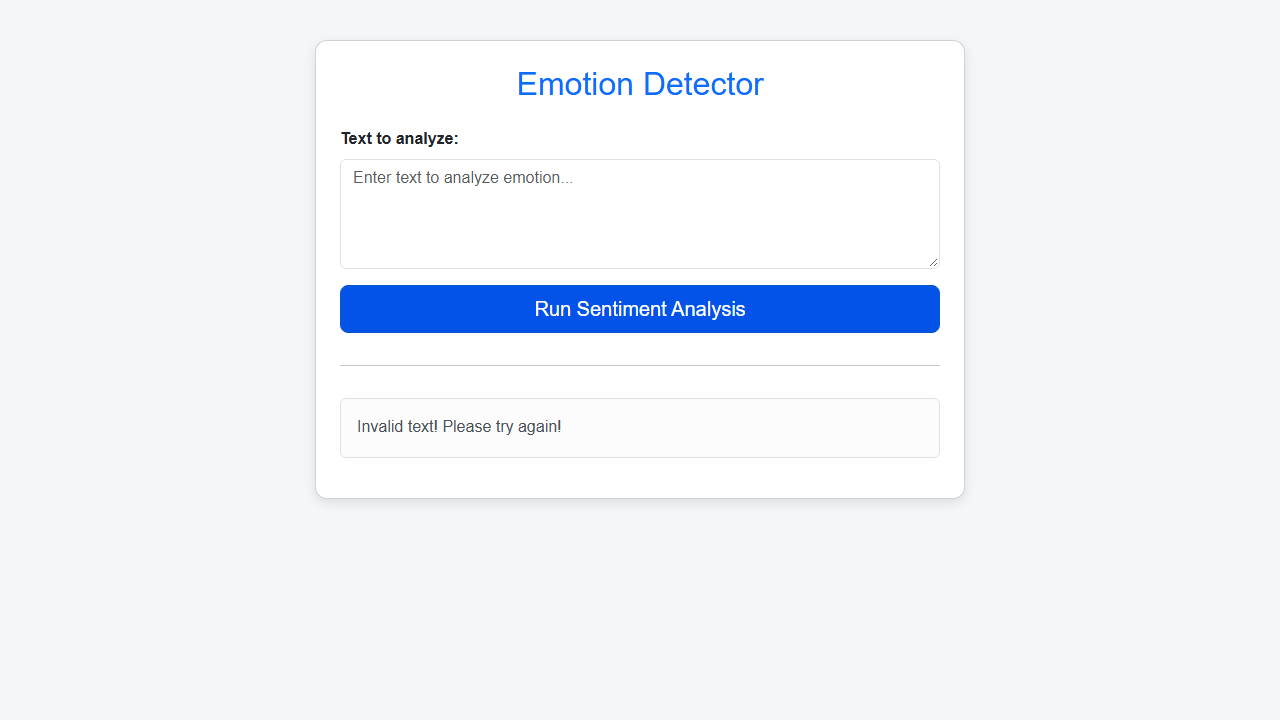
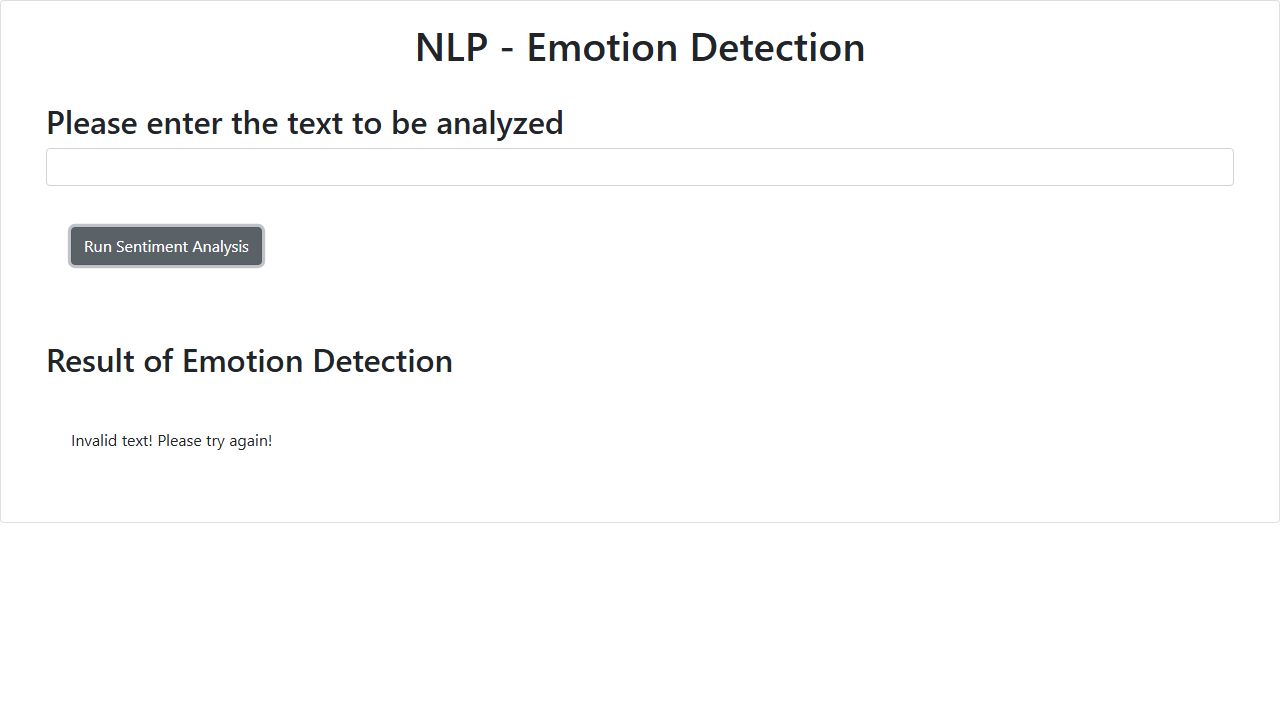
Update templates and deployment screenshots

diff --git a/templates/index.html b/templates/index.html
@@ -1,43 +1,33 @@
-<!DOCTYPE html>
-<html lang="en">
+<html>
 <head>
-    <meta charset="UTF-8">
-    <title>Emotion Detector</title>
-    <script src="{{ url_for('static', filename='mywebscript.js') }}"></script>
-    <link rel="stylesheet" href="https://cdn.jsdelivr.net/npm/bootstrap@5.3.0/dist/css/bootstrap.min.css">
+    <link rel="stylesheet" href="https://stackpath.bootstrapcdn.com/bootstrap/4.3.1/css/bootstrap.min.css" integrity="sha384-ggOyR0iXCbMQv3Xipma34MD+dH/1fQ784/j6cY/iJTQUOhcWr7x9JvoRxT2MZw1T" crossorigin="anonymous">
+    <script src="./static/mywebscript.js"></script>
     <style>
-        body {
-            padding: 40px;
-            background-color: #f4f6f8;
-            font-family: Arial, sans-serif;
-        }
-        .card {
-            max-width: 650px;
-            margin: 0 auto;
-            border-radius: 12px;
-            box-shadow: 0 4px 12px rgba(0, 0, 0, 0.1);
-        }
-        .btn-primary {
-            background-color: #0f62fe;
-            border-color: #0f62fe;
-        }
-        .btn-primary:hover {
-            background-color: #0353e9;
+        .center-heading {
+            text-align: center;
         }
     </style>
 </head>
 <body>
-    <div class="card p-4">
-        <h2 class="text-center mb-4 text-primary">Emotion Detector</h2>
-        <div class="mb-3">
-            <label for="textToAnalyze" class="form-label fw-bold">Text to analyze:</label>
-            <textarea class="form-control" id="textToAnalyze" rows="4" placeholder="Enter text to analyze emotion..."></textarea>
+    <div class="card">
+        <div class="card-body">
+            <h1 class="center-heading">NLP - Emotion Detection</h1> 
+            <div style="padding: 25px 25px 25px 25px;">
+            <h2 class="mb-3">
+                <label class="form-label">Please enter the text to be analyzed</label>
+                <input type="textarea" class="form-control" id="textToAnalyze">
+            </h2>
+
+            <div style="padding: 25px 25px 25px 25px;">
+                <button onclick="RunSentimentAnalysis()" class="btn btn-secondary">Run Sentiment Analysis</button>
+            </div>
+            <div style="padding: 25px 25px 25px 25px;"></div>
+            <h2 class="mb-3">
+                <label class="form-label">Result of Emotion Detection</label>
+            </h2>
+
+            <div id="system_response" style="padding: 25px 25px 25px 25px;"></div>
         </div>
-        <div class="d-grid mb-3">
-            <button class="btn btn-primary btn-lg" onclick="RunSentimentAnalysis()">Run Sentiment Analysis</button>
-        </div>
-        <hr>
-        <div id="system_response" class="alert alert-light border mt-3 fs-6" style="min-height: 60px;"></div>
     </div>
 </body>
 </html>

diff --git a/static/mywebscript.js b/static/mywebscript.js
@@ -1,5 +1,5 @@
-let RunSentimentAnalysis = () => {
-    let textToAnalyze = document.getElementById("textToAnalyze").value;
+let RunSentimentAnalysis = ()=>{
+    textToAnalyze = document.getElementById("textToAnalyze").value;
 
     let xhttp = new XMLHttpRequest();
     xhttp.onreadystatechange = function() {
@@ -7,6 +7,6 @@ let RunSentimentAnalysis = () => {
             document.getElementById("system_response").innerHTML = xhttp.responseText;
         }
     };
-    xhttp.open("GET", "emotionDetector?textToAnalyze=" + encodeURIComponent(textToAnalyze), true);
+    xhttp.open("GET", "emotionDetector?textToAnalyze"+"="+textToAnalyze, true);
     xhttp.send();
 }
